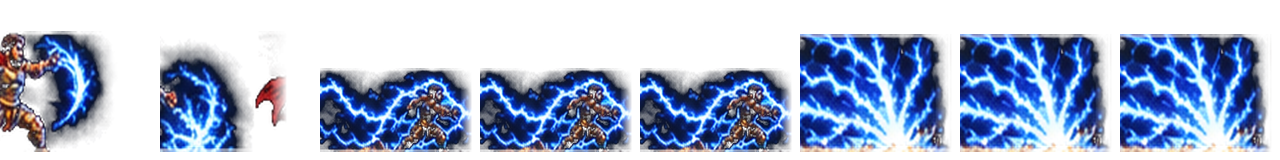
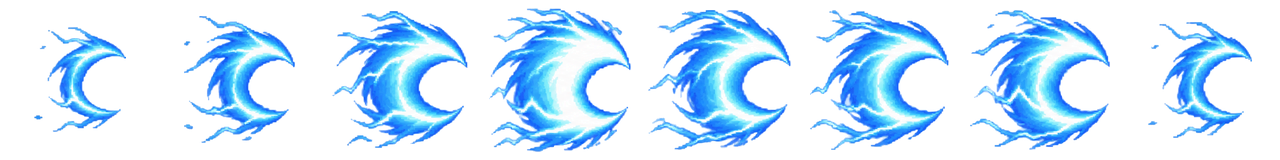
New painted energy effects: Marcus Lightning Wave and Mars Crimson Cleave
Replace the old effect strips (which had character pieces baked in) with clean
8-frame 160x160 transparent energy sheets, and add fight/tools/pack_effect.py
to convert generated strips into the game's 1280x160 format.

Claude-Session: https://claude.ai/code/session_01T4Ncn1ihgTr1NAgQFywcZ6

diff --git a/fight/tools/pack_effect.py b/fight/tools/pack_effect.py
@@ -1,0 +1,30 @@
+"""Pack an AI-generated 8-frame energy-attack strip into the Roman Arena effect format.
+Usage: python fight/tools/pack_effect.py input.png fight/specials/painted/<id>_effect.png
+Output: 1280x160 RGBA, 8 frames of 160x160, one shared scale so the grow/shrink animation is preserved.
+Loose sparks/embers are assigned to the nearest frame, so tails that overlap slice lines are kept whole."""
+import sys, numpy as np
+from PIL import Image
+from scipy import ndimage
+src,out=sys.argv[1],sys.argv[2]
+im=Image.open(src).convert('RGBA'); a=np.array(im); a[...,3][a[...,3]<40]=0
+W=a.shape[1]; mask=a[...,3]>0
+lab,n=ndimage.label(mask, structure=np.ones((3,3)))
+cents=ndimage.center_of_mass(mask,lab,range(1,n+1)); sizes=ndimage.sum(mask,lab,range(1,n+1))
+# frame centers from big components' column mass
+big=[(c[1],s) for c,s in zip(cents,sizes) if s>2000]
+centers=[(i+0.5)*W/8 for i in range(8)]
+owner=np.zeros(n+1,int)
+for k,(c,s) in enumerate(zip(cents,sizes),1):
+    # embers sit to the LEFT of their arc (trailing), so bias a little rightward
+    owner[k]=int(np.argmin([abs(c[1]+(25 if s<2000 else 0)-x) for x in centers]))
+crops=[]
+for i in range(8):
+    f=a.copy(); keep=np.isin(lab,np.where(owner==i)[0]); f[...,3]=np.where(keep,f[...,3],0)
+    fi=Image.fromarray(f); crops.append(fi.crop(fi.getbbox()))
+print('components',n,'widths',[c.width for c in crops])
+scale=144/max(max(c.size) for c in crops)
+sheet=Image.new('RGBA',(1280,160),(0,0,0,0))
+for i,c in enumerate(crops):
+    c=c.resize((max(1,round(c.width*scale)),max(1,round(c.height*scale))),Image.LANCZOS)
+    sheet.alpha_composite(c,(i*160+(160-c.width)//2,(160-c.height)//2))
+sheet.save(out); print(out,sheet.size,'scale %.3f'%scale)
